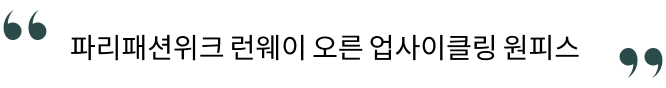
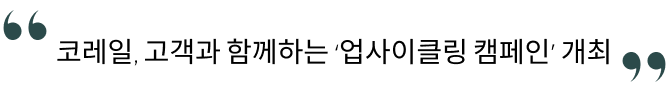
feat : 렌딩페이지 3번째 컴포넌트

Changed region(s): [[0.0, 0.3636, 1.0, 0.7045], [0.9309, 0.7045, 1.0, 0.8636], [0.0, 0.1364, 0.0901, 0.2727]]

diff --git a/front/src/components/Landing/Landing03.tsx b/front/src/components/Landing/Landing03.tsx
@@ -1,8 +1,8 @@
 import styled from "styled-components";
 import { Container, Container1300 } from "../common/Containers";
-import Landing03TextItem from "./Landing03TextItem";
+import LandingTextImgItem from "./LandingTextImgItem";
 import LandingImgs from "./LandingImgs";
-import upcycleIcon from "../../assets/images/icons/icon_upcycle_br.png";
+import upcycleIcon from "../../assets/images/icons/icon_upcycle_light.png";
 import feedIcon from "../../assets/images/icons/icon_feed_bei.png";
 import joinIcon from "../../assets/images/icons/icon_join.png";
 import teacherIcon from "../../assets/images/icons/icon_teacher.png";
@@ -11,84 +11,127 @@ import teacherIcon from "../../assets/images/icons/icon_teacher.png";
 
 const TextImgBox = styled.div`
   padding-bottom: 30px;
-  margin-bottom: 80px;
 `
 
 const UpcycleIconBox =styled.div`
   width:100%;
-  height:100px;
+  height:158px;
   position: relative;
   display:flex;
   align-items:center;
+  justify-content:center;
+  margin : 200px 0;
   i{
+    position: absolute;
+    z-index: 1;
+    left: 0;
+    top: 50%;
     display:block;
     width:100%;
     height: 2px;
     background: ${({theme}) => theme.colors.darkBeige};
   }
   > div{
+    position:relative;
+    z-index: 2;
     display:inline-block;
-    padding: 10px 50px;
-    position: absolute;
-    height:100px;
-    left: 50%;
-    top: 0%;
-    transform: translateX(-50%);
+    padding: 0 50px;
     background: ${({theme}) => theme.colors.bodyBg};
   }
 `
 
 const ServiceDetailBox = styled.div`
+  text-align:center; 
+`
+const TitleBox = styled.div`
 
+`
+const DescBox = styled.div`
+  margin: 120px 0 150px;
+  font-size: 18px;
+  p{
+    color: ${({theme}) => theme.colors.dasidaGreen};
+    + p{
+      padding-top : 20px;
+    }
+  }
+
+`
+const ContentBox = styled.div`
+  display:flex;
+  font-size: 17px;
+  justify-content:space-around;
+  .innerBox{
+
+    .imgBox{
+      margin-bottom: 50px;
+    }
+    .contentTextBox{
+      
+      p{
+        + p{
+          padding-top:10px;
+        }
+      }
+    }
+  }
 `
 
 
 export default function Landing03() {
-  const imgSize = ["70", "50", "45", "36", "34", "34", "30", "28", "26", "24"];
   const transitionDelay = ["0", ".2", ".4", ".6", ".7", ".8", ".9", "1", "1.1", "1.2"];
-  const serviceIcons = [feedIcon, joinIcon, teacherIcon];
-  const serviceDescText = [
-    "나의 업사이클링 활동을 공유하고\n 다른 사람의 업사이클링 활동을 응원합니다.",
-    "다양한 업사이클링 관련 캠페인에 참여하고\n 직접 캠페인을 개최할 수도 있습니다.",
-    "실제로 사용가능한 실용적인 업사이클링 제품을\n 만들기 위한 클래스를 제공합니다.",
+  const serviceInnerItem = [
+    {
+      icon : feedIcon,
+      descText : "나의 업사이클링 활동을 공유하고\n 다른 사람의 업사이클링 활동을 응원합니다."
+    },
+    {
+      icon : joinIcon,
+      descText : "다양한 업사이클링 관련 캠페인에 참여하고\n 직접 캠페인을 개최할 수도 있습니다."
+    },
+    {
+      icon : teacherIcon,
+      descText : "실제로 사용가능한 실용적인 업사이클링 제품을\n 만들기 위한 클래스를 제공합니다."
+    },
   ]
+  
   return (
-    <Container>
-      <Container1300>
-        <TextImgBox>
-          {LandingImgs.landing03Text.map((ele, idx)=> (
-              <Landing03TextItem imgSrc ={ele} imgSize={imgSize[idx]} transitionDelay={transitionDelay[idx]} idx={idx} key={idx + ele} />
-            ))}
-        </TextImgBox>
-        <UpcycleIconBox>
-          <i></i>
-          <div>
-            <img src={upcycleIcon} alt="upcycleIcon" />
-          </div>
-        </UpcycleIconBox>
-        <ServiceDetailBox>
-          <div className="title">
-            다시, 다 프로젝트
-          </div>
-          <div className="desc">
-            <p>다시, 다 프로젝트는 누구나 쉽게 업사이클링에 접근할 수 있게 도와주는 서비스입니다.</p>
-            <p>버려지는 폐자원들에 가치를 더해 새로운 제품으로 재탄생시키고, 필요한 곳에 기부함으로써 환경오염을 개선해나가는 길에 함께합니다.</p>
-          </div>
-            {serviceIcons.map((ele,idx) =>(
-              <div>
-                <div>
-                  <img src={ele} alt="" />
-                </div>
-                <div>
-                  <div>
-                    {serviceDescText[idx]}
-                  </div>
-                </div>
+    <>
+      <TextImgBox>
+        {LandingImgs.landing03Text.map((ele, idx)=> (
+            <LandingTextImgItem imgSrc ={ele} transitionDelay={transitionDelay[idx]} idx={idx} key={idx + ele} />
+          ))}
+      </TextImgBox>
+      <UpcycleIconBox>
+        <i></i>
+        <div>
+          <img src={upcycleIcon} alt="upcycleIcon" />
+        </div>
+      </UpcycleIconBox>
+      <ServiceDetailBox>
+        <TitleBox>
+          <img src={LandingImgs.landing03Title} alt="" />
+        </TitleBox>
+        <DescBox>
+          <p>다시, 다 프로젝트는 누구나 쉽게 업사이클링에 접근할 수 있게 도와주는 서비스입니다.</p>
+          <p>버려지는 폐자원들에 가치를 더해 새로운 제품으로 재탄생시키고, 필요한 곳에 기부함으로써 환경오염을 개선해나가는 길에 함께합니다.</p>
+        </DescBox>
+        <ContentBox>
+          {serviceInnerItem.map(({icon, descText}) =>(
+            <div className="innerBox">
+              <div className="imgBox">
+                <img src={icon} alt="serviceIcon" />
               </div>
-            ))}
-        </ServiceDetailBox>
-      </Container1300>
-    </Container>
+              <div className="contentTextBox">
+                {descText.split("\n").map(ele => (
+                  <p>{ele}</p>
+                ))}
+              </div>
+            </div>
+          ))}
+        </ContentBox>
+      </ServiceDetailBox>
+    </>
   )
 }
 

diff --git a/front/src/components/Landing/LandingTextImgItem.tsx b/front/src/components/Landing/LandingTextImgItem.tsx
@@ -1,0 +1,58 @@
+import React from 'react'
+import styled from 'styled-components';
+
+
+
+
+const LandingImgBox = styled.div<{ transitionDelay: string}>`
+  opacity: 0;
+  transition : opacity 1.5s ${({transitionDelay})=>transitionDelay}s;
+  
+  &:nth-child(2),&:nth-child(4),&:nth-child(7),&:nth-child(9){
+    text-align:right;
+  }
+  &:nth-child(5),&:nth-child(8){
+    text-align:center;
+  }
+  &:nth-child(5){
+    margin-right:100px;
+  }
+  &:nth-child(7){
+    margin-right:50px;
+  }
+  &:nth-child(8){
+    margin-right:300px;
+  }
+  &:nth-child(9){
+    margin-right:100px;
+  }
+  &:not(:nth-child(9),:nth-child(10)):nth-child(n+4){
+    margin-bottom:40px;
+  }
+  &:nth-child(4),&:nth-child(5){
+    margin-bottom:70px;
+  }
+  &:nth-child(10){
+    margin-left:100px;
+  }
+  
+  &.active{
+    opacity: 1;
+  }
+`
+
+
+interface LandingTextImg{
+  imgSrc: string;
+  idx: number;
+  transitionDelay: string;
+};
+
+
+export default function LandingTextImgItem({imgSrc, idx,  transitionDelay}:LandingTextImg) {
+  return (
+    <LandingImgBox  className={`LadingTextImg${idx+1} active`}  transitionDelay={transitionDelay} >
+      <img src={imgSrc} alt={imgSrc+idx} />
+    </LandingImgBox>
+  )
+}

diff --git a/front/src/components/Landing/LandingImgs.ts b/front/src/components/Landing/LandingImgs.ts
@@ -8,6 +8,7 @@ import landingTxt07 from "../../assets/images/landingTxt07.png";
 import landingTxt08 from "../../assets/images/landingTxt08.png";
 import landingTxt09 from "../../assets/images/landingTxt09.png";
 import landingTxt10 from "../../assets/images/landingTxt10.png";
+import landing03Title from "../../assets/images/landing03Title.png";
 
 const LandingImgs = {
   landing03Text:[
@@ -21,7 +22,7 @@ const LandingImgs = {
     landingTxt08,
     landingTxt09,
     landingTxt10
-  
-  ]
+  ],
+  landing03Title,
 }
 export default LandingImgs;

diff --git a/front/src/pages/LandingPage/LandingPage.tsx b/front/src/pages/LandingPage/LandingPage.tsx
@@ -1,9 +1,12 @@
+import { Container, Container1300 } from "../../components/common/Containers";
 import Landing03 from "../../components/Landing/Landing03";
 
 export default function LandingPage() {
   return (
-    <div>
-      <Landing03/>
-    </div>
+    <Container>
+      <Container1300>
+        <Landing03/>
+      </Container1300>
+    </Container>
   )
 }
